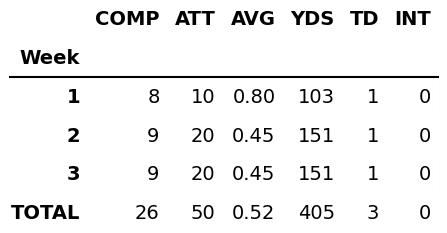
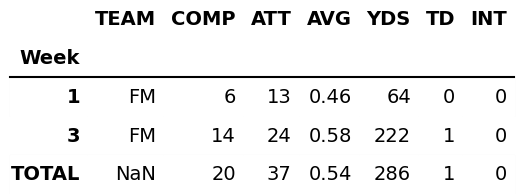
More fix

diff --git a/data.py b/data.py
@@ -151,7 +151,11 @@ stats_by_type = {
     },
     "RECEIVING" : {
         "Receptions" : "REC",
-        "ReceivingYards" :"YDS"
+        "Drops" : "DROP",
+        "ReceivingYards" :"YDS",
+        "ReceivingTDs" : "TD",
+        "LongestReception" : "LONG",
+        "YardsAfterCatch" : "YAC"
     }
 }
 
@@ -270,7 +274,7 @@ class Player:
 
         print(self.attributes["SPEED"])
 
-    def stats_image(self, league_settings, kind):
+    def stats_image(self, league_settings, kind, team_table):
 
         if kind == "NONE":
             return
@@ -296,7 +300,7 @@ class Player:
                 #ctx.send("No stats found")
                 print(f'no stats found in sheet {f} for {self.attributes["INDEX"]}')
             else:
-                named_week_stats = {"Week" : i + 1, "Name" : self.full_name}
+                named_week_stats = {"Week" : i + 1, "TEAM" : team_table[rec["TEAMID"]]["ABV"], "Name" : self.full_name}
                 for k, v in rec.items():
                     if k in kind_breakdowns:
                         named_week_stats[kind_breakdowns[k]] = v
@@ -312,19 +316,22 @@ class Player:
         df.loc['TOTAL']= df.sum(numeric_only=True, axis=0)
         df["Name"] = ""
         df.at["TOTAL", "Week"] = ""
+        df.at["TOTAL","TEAM"] = ""
         df.at["TOTAL", "Name"] = self.full_name
 
         if kind == "PASSING":
             df["AVG"] = round((df["COMP"] / df["ATT"]), 2)
-            df = df[["COMP", "ATT", "AVG", "YDS", "TD", "INT"]]
+            df = df[["TEAM", "COMP", "ATT", "AVG", "YDS", "TD", "INT"]]
         elif kind == "RUSHING":
             df["YPC"] = round((df["YDS"] / df["ATT"]), 2)
-            df = df[["ATT", "YDS", "YPC", "TD", "FUM"]]
+            df = df[["TEAM", "ATT", "YDS", "YPC", "TD", "FUM"]]
         elif kind == 'RECEIVING':
+            df["Y/CAT"] = round(df["YDS"] / df["REC"], 1)
+            df = df[["TEAM", "REC", "YDS", "Y/CAT", "YAC", "TD", "LONG"]]
             pass
 
 
-        whole_numbers = ["COMP", "ATT", "YDS", "TD", "INT", "FUM"]
+        whole_numbers = ["REC", "COMP", "ATT", "YDS", "YAC", "LONG", "TD", "INT", "FUM"]
         test = {}
         for k in whole_numbers:
             if k in df.columns:

diff --git a/bot.py b/bot.py
@@ -234,7 +234,7 @@ class Everyone(commands.Cog, name="Everyone"):
         path = f'{data_path}Player Portraits/Skin Tone {p.attributes["SKIN"]}/{p.attributes["PORTRAIT"]}.png'
         
         thumb = discord.File(path, filename="portrait.png")
-        stats_image = p.stats_image(league_settings, p.get_default_stat_range())
+        stats_image = p.stats_image(league_settings, p.get_default_stat_range(), team_table)
         #title = f'**{p.full_name}** · {p.attributes["POS"]} · #{p.attributes["NUMBER"]}'
         team_emoji = p.team_emoji(ctx, team_table)
         #title = f'**{p.full_name}** · *SUPERSTAR*\n**{p.letter_grade()}** · {p.attributes["POS"]} · #{p.attributes["NUMBER"]}'
